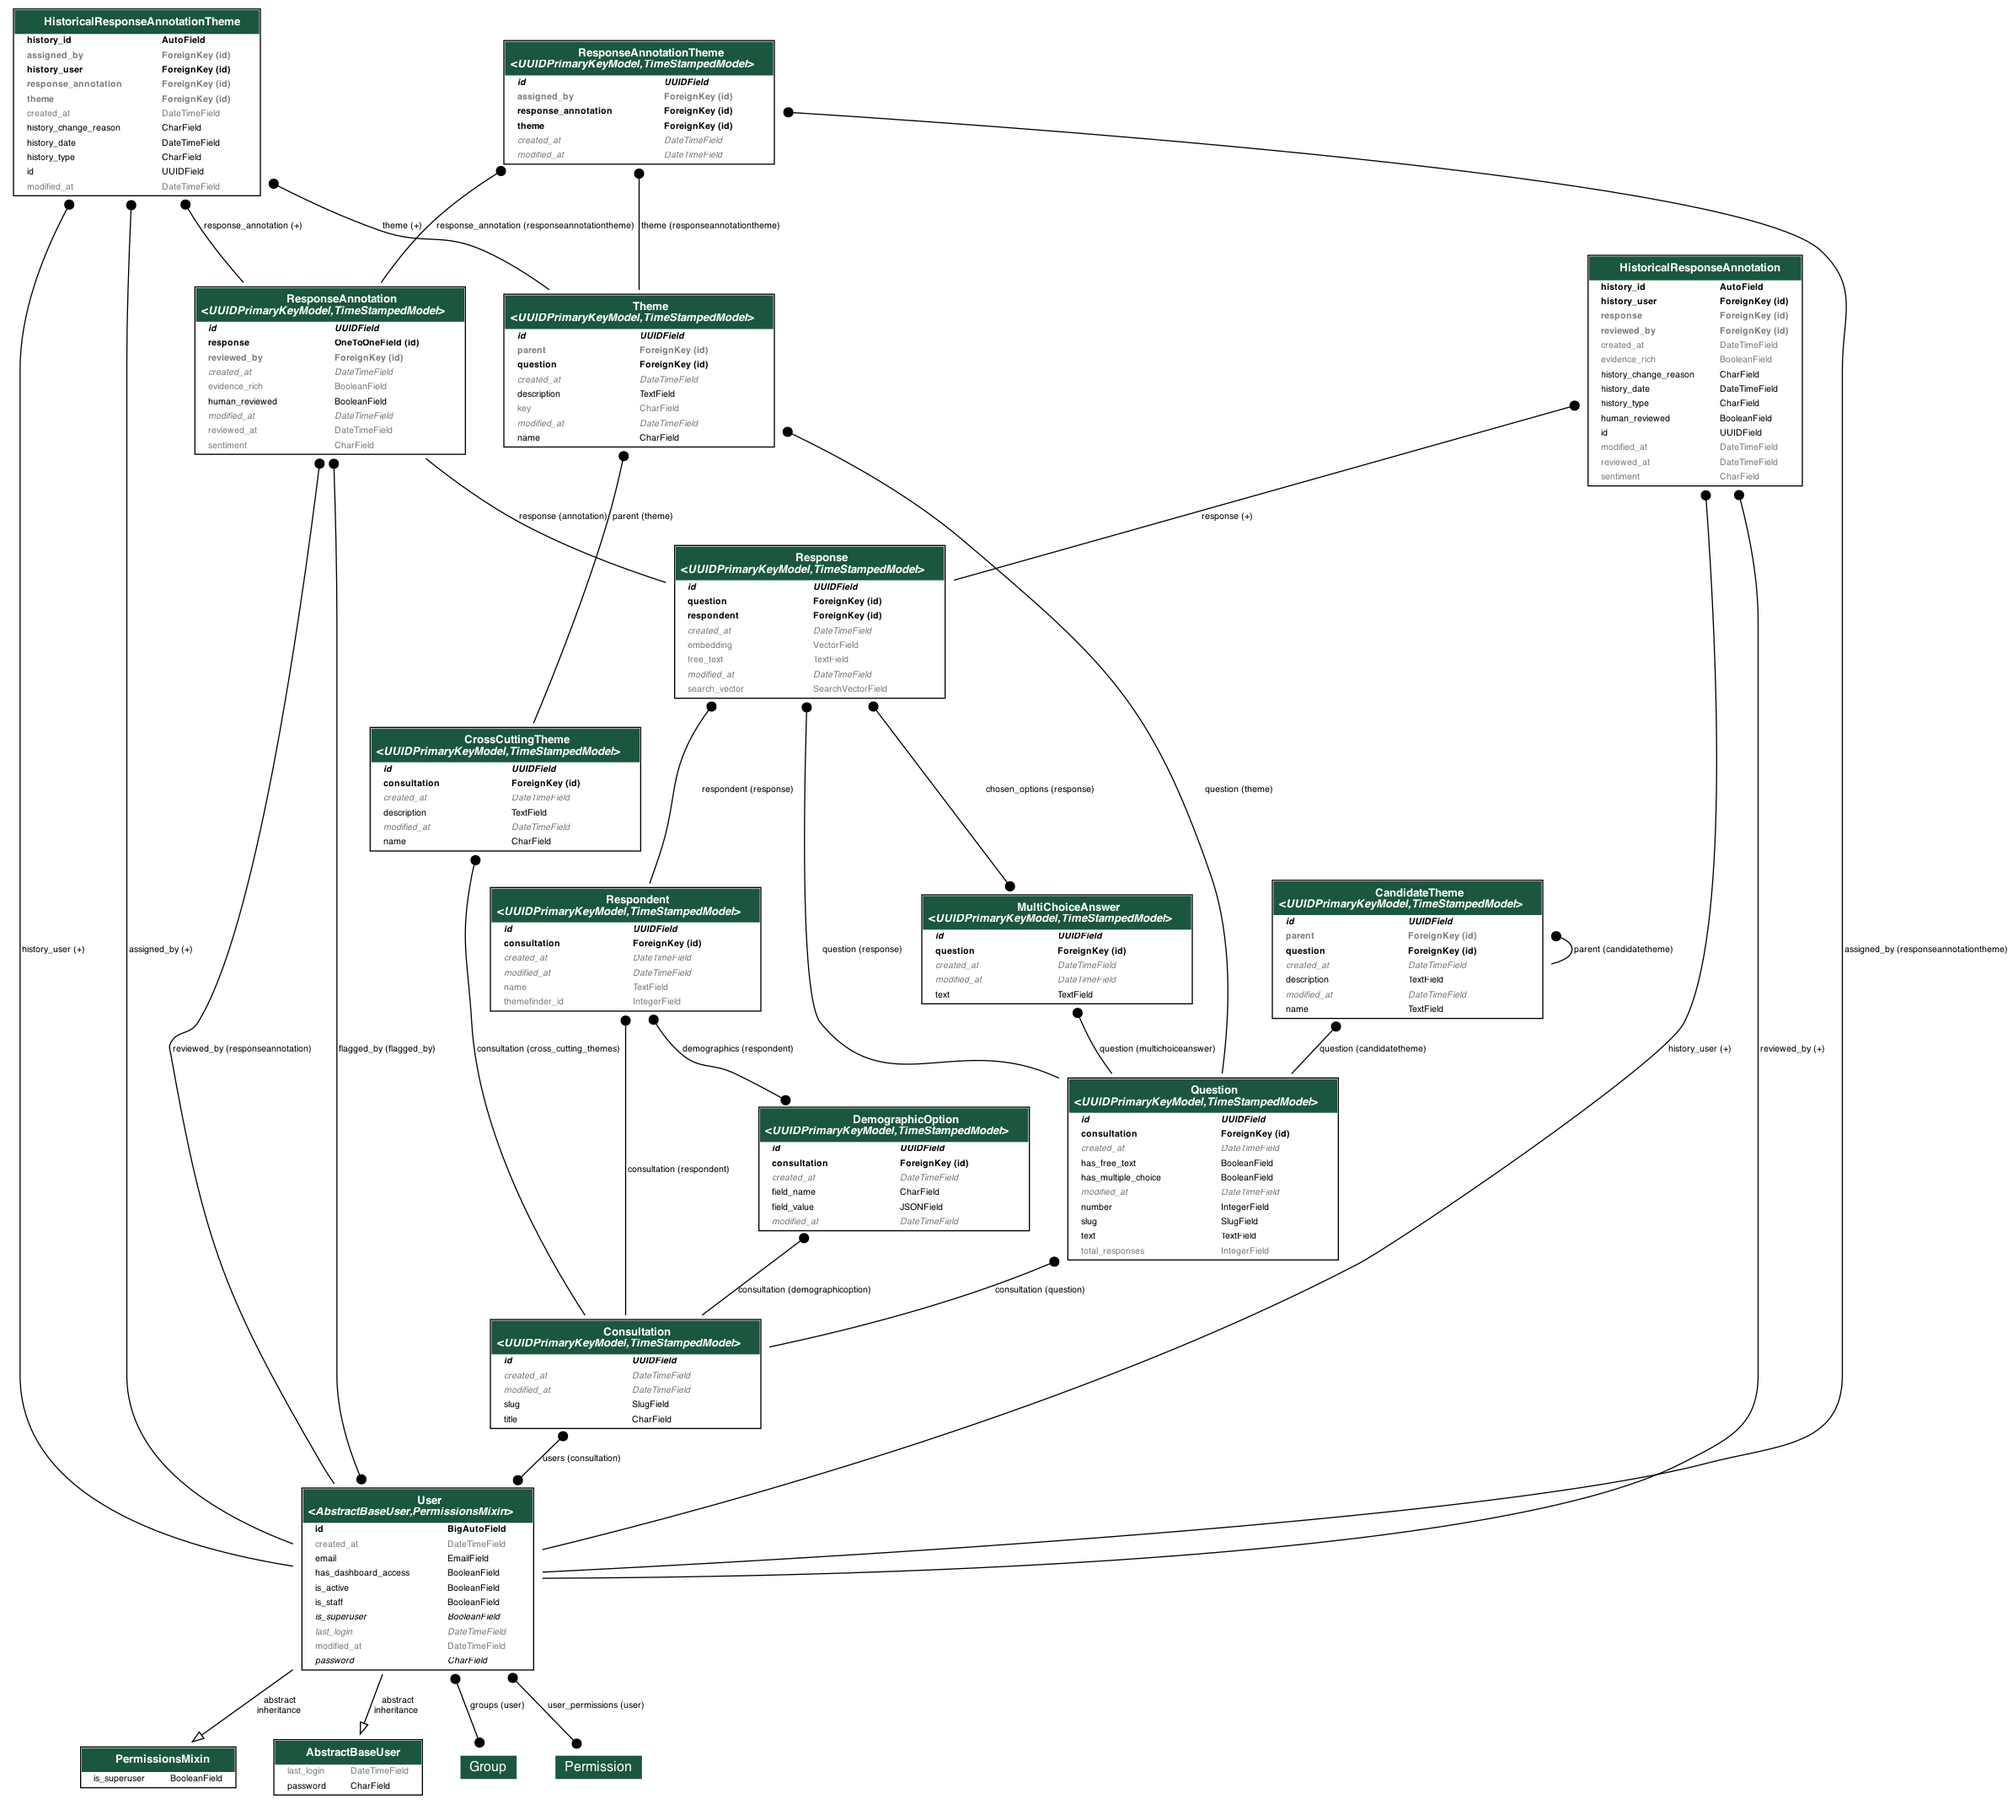
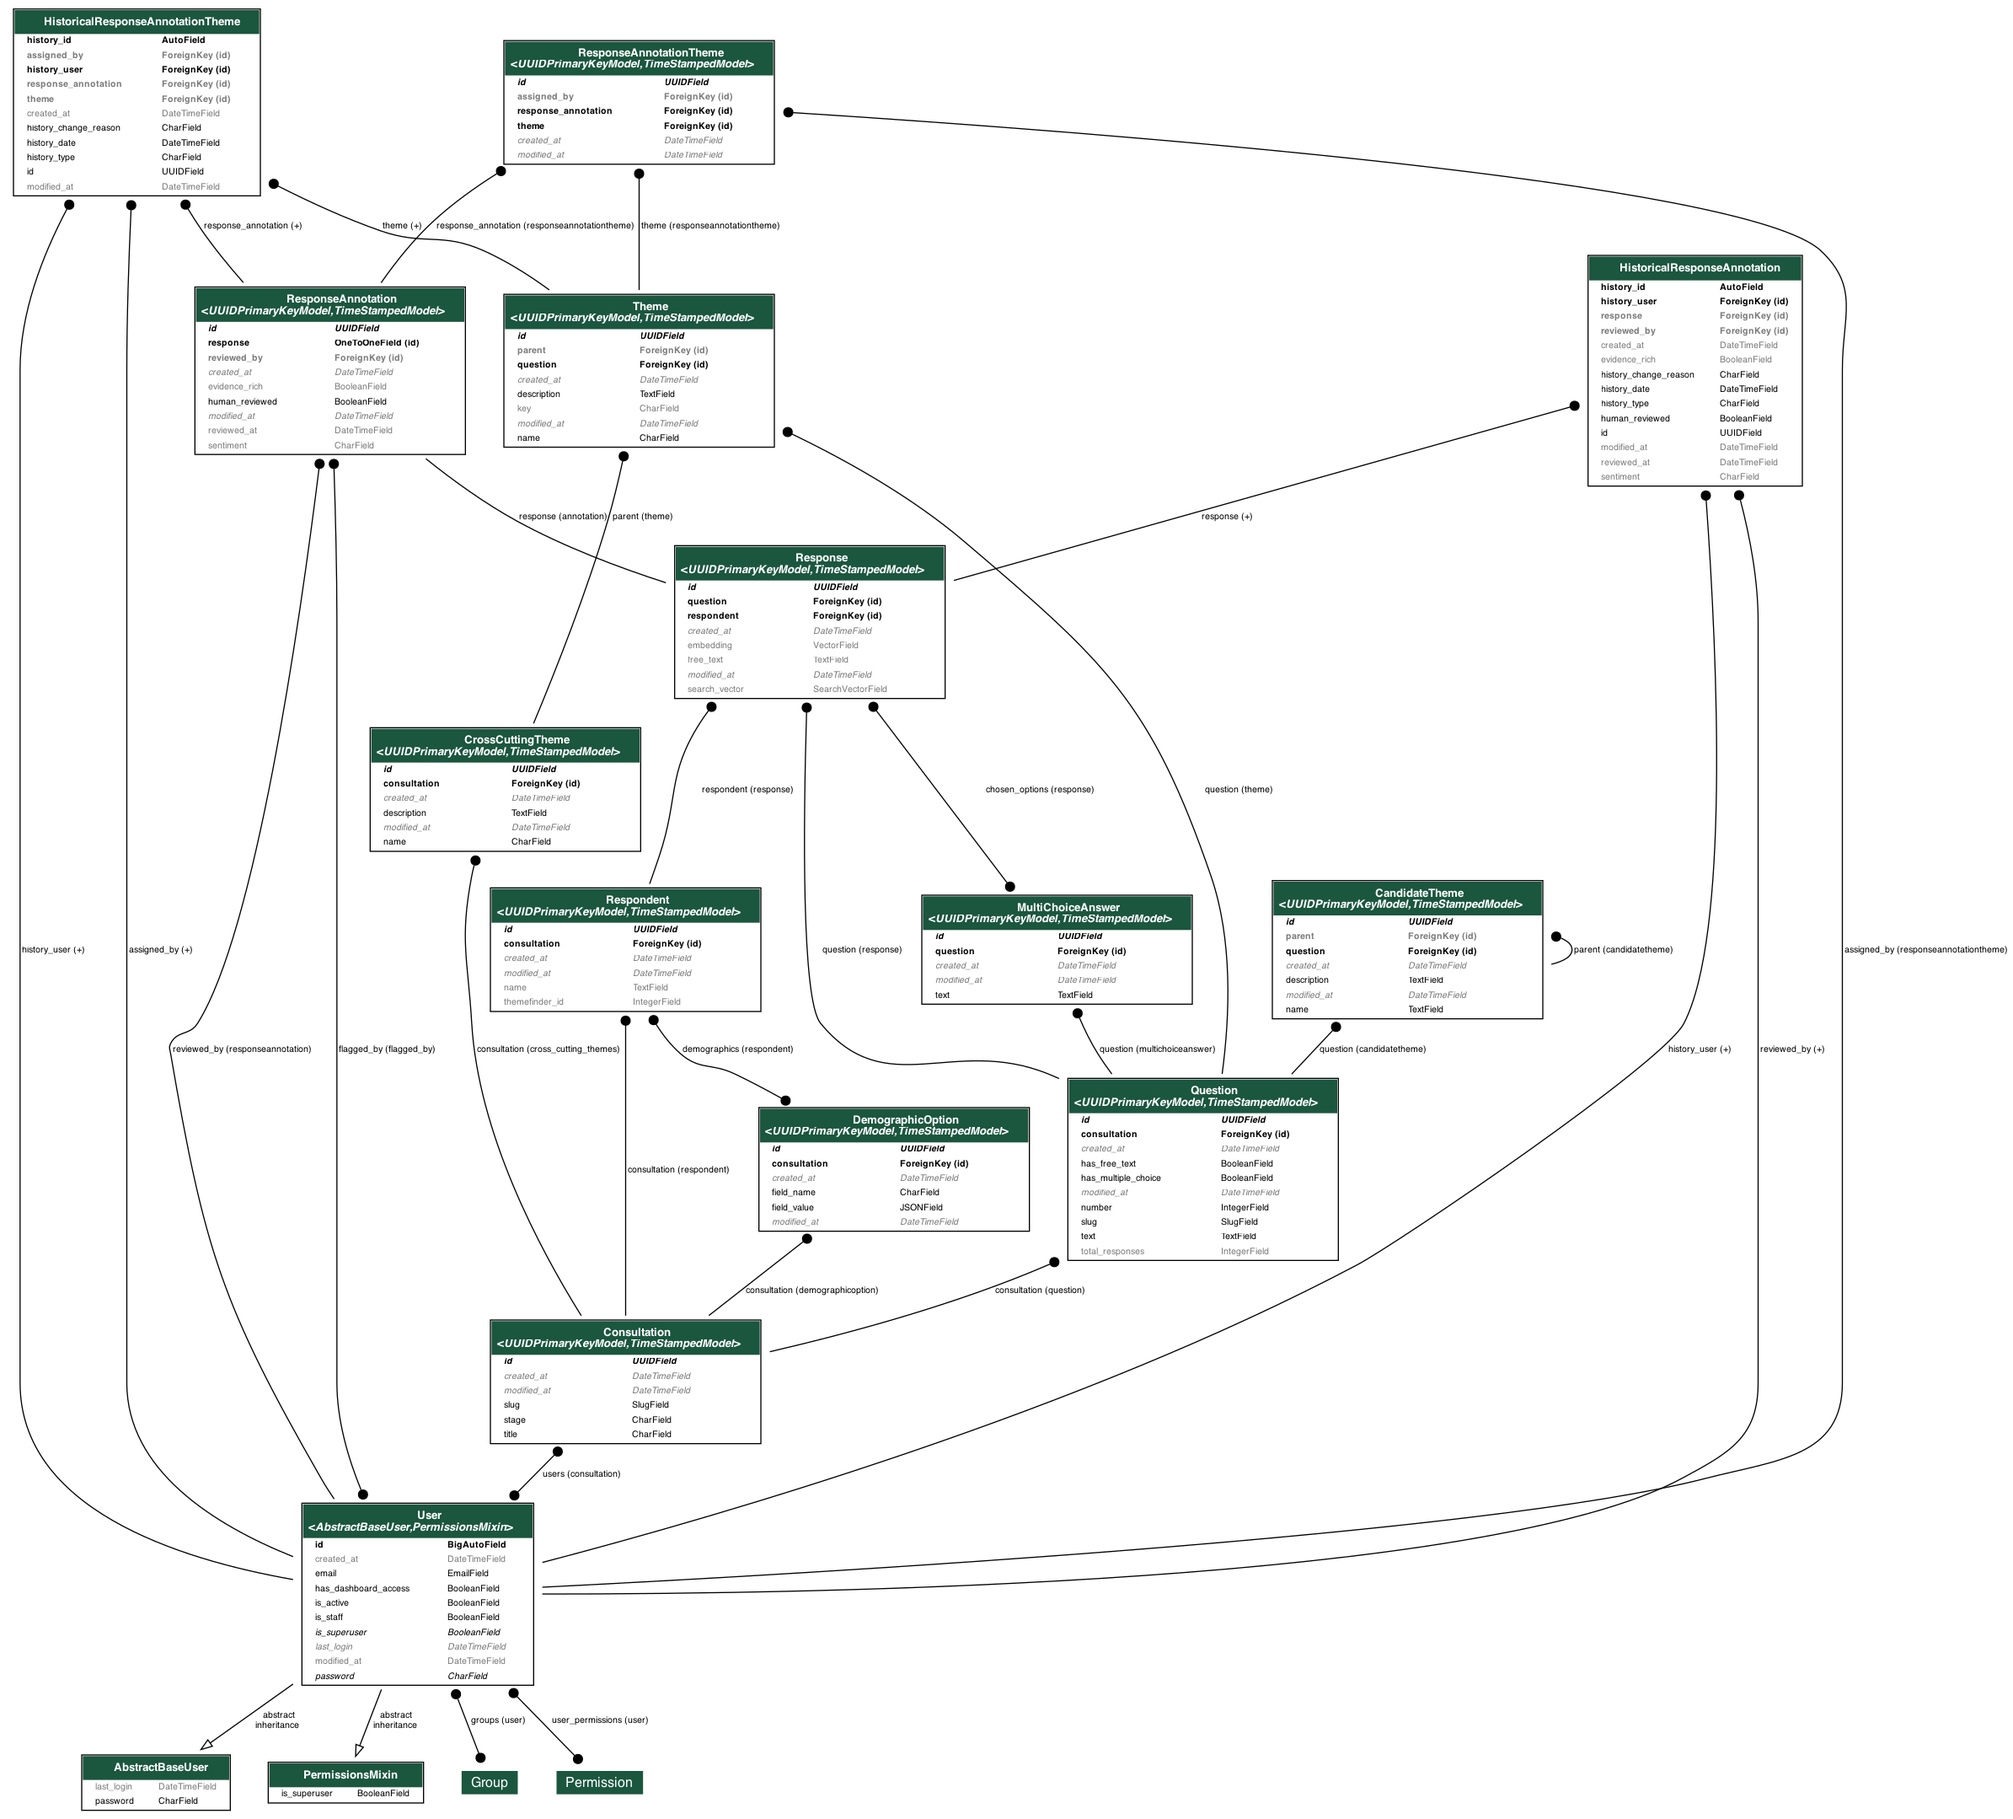
feat: Add `stage` field to consulation model
This field indicates what stage the consultation is at which should
be useful for determining which sections should be shown in the app.

diff --git a/consultation_analyser/consultations/models.py b/consultation_analyser/consultations/models.py
@@ -37,11 +37,19 @@ class TimeStampedModel(models.Model):
         abstract = True
         ordering = ["created_at"]
 
+class ConsultationStage(models.TextChoices):
+    THEME_SIGN_OFF = "theme_sign_off", "Theme Sign Off"
+    ANALYSIS = "analysis", "Analysis"
 
 class Consultation(UUIDPrimaryKeyModel, TimeStampedModel):
     title = models.CharField(max_length=256)
     slug = models.SlugField(max_length=256, unique=True)
     users = models.ManyToManyField(User)
+    stage = models.CharField(
+        max_length=32,
+        choices=ConsultationStage.choices,
+        default=ConsultationStage.ANALYSIS,
+    )
 
     def save(self, *args, **kwargs):
         if not self.slug:

diff --git a/consultation_analyser/consultations/migrations/0077_consultation_stage.py b/consultation_analyser/consultations/migrations/0077_consultation_stage.py
@@ -1,0 +1,25 @@
+# Generated by Django 5.2.6 on 2025-10-07 14:35
+
+from django.db import migrations, models
+
+
+class Migration(migrations.Migration):
+
+    dependencies = [
+        ("consultations", "0076_candidatetheme"),
+    ]
+
+    operations = [
+        migrations.AddField(
+            model_name="consultation",
+            name="stage",
+            field=models.CharField(
+                choices=[
+                    ("theme_sign_off", "Theme Sign Off"),
+                    ("analysis", "Analysis"),
+                ],
+                default="analysis",
+                max_length=32,
+            ),
+        ),
+    ]
